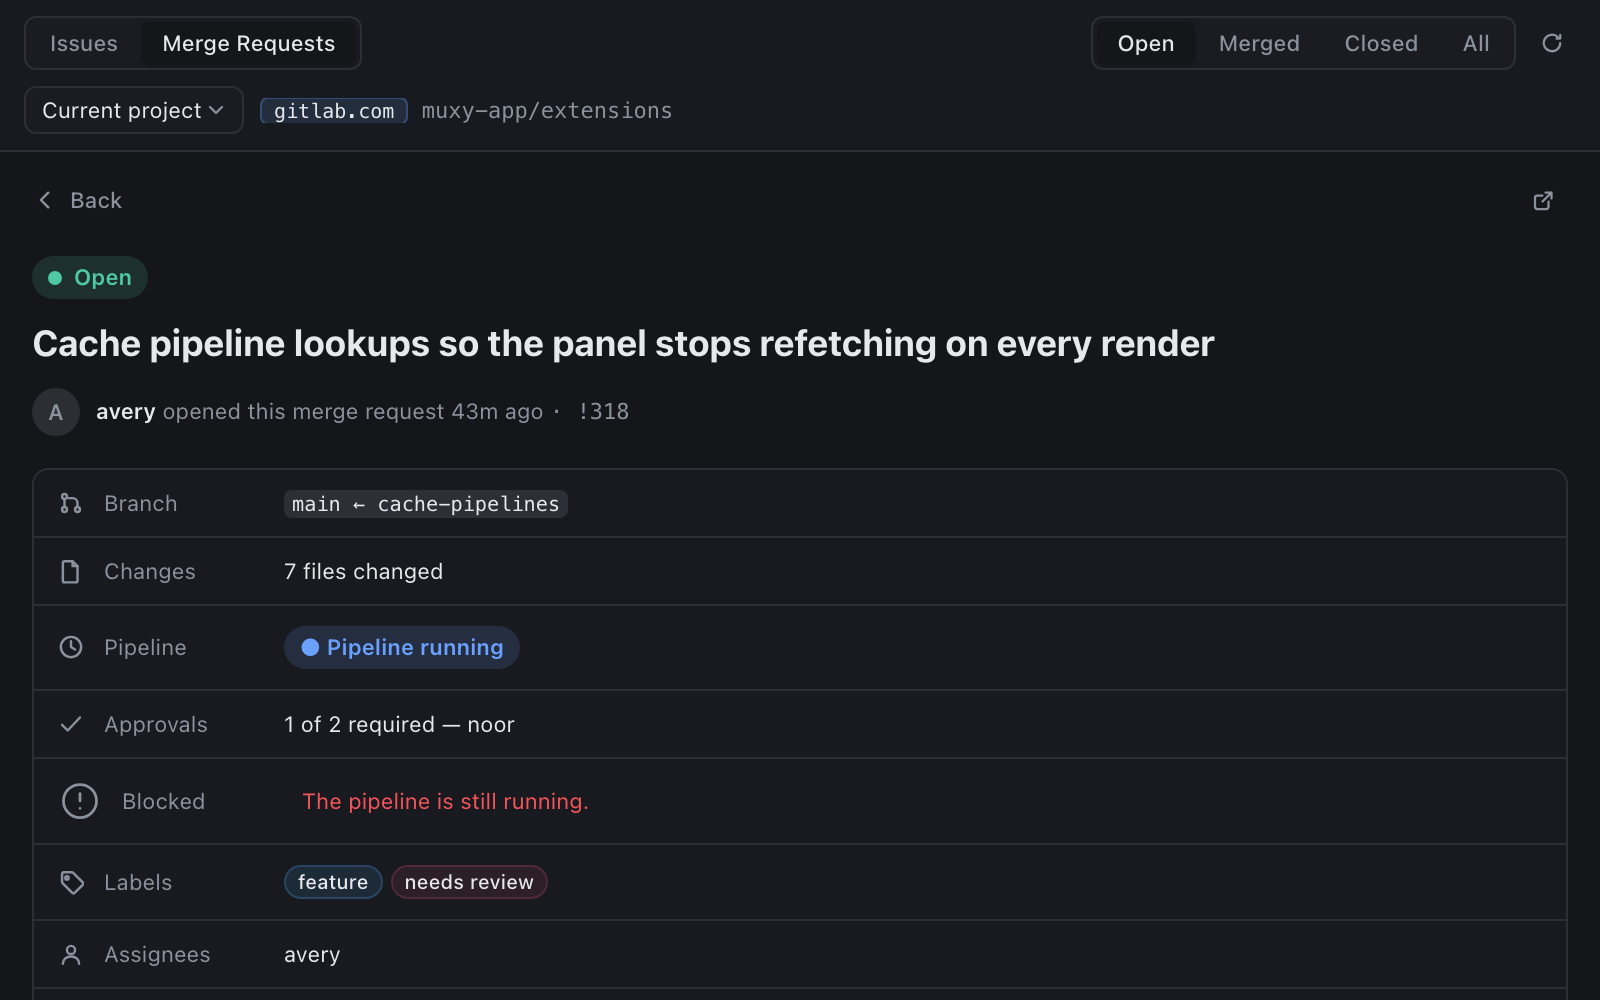
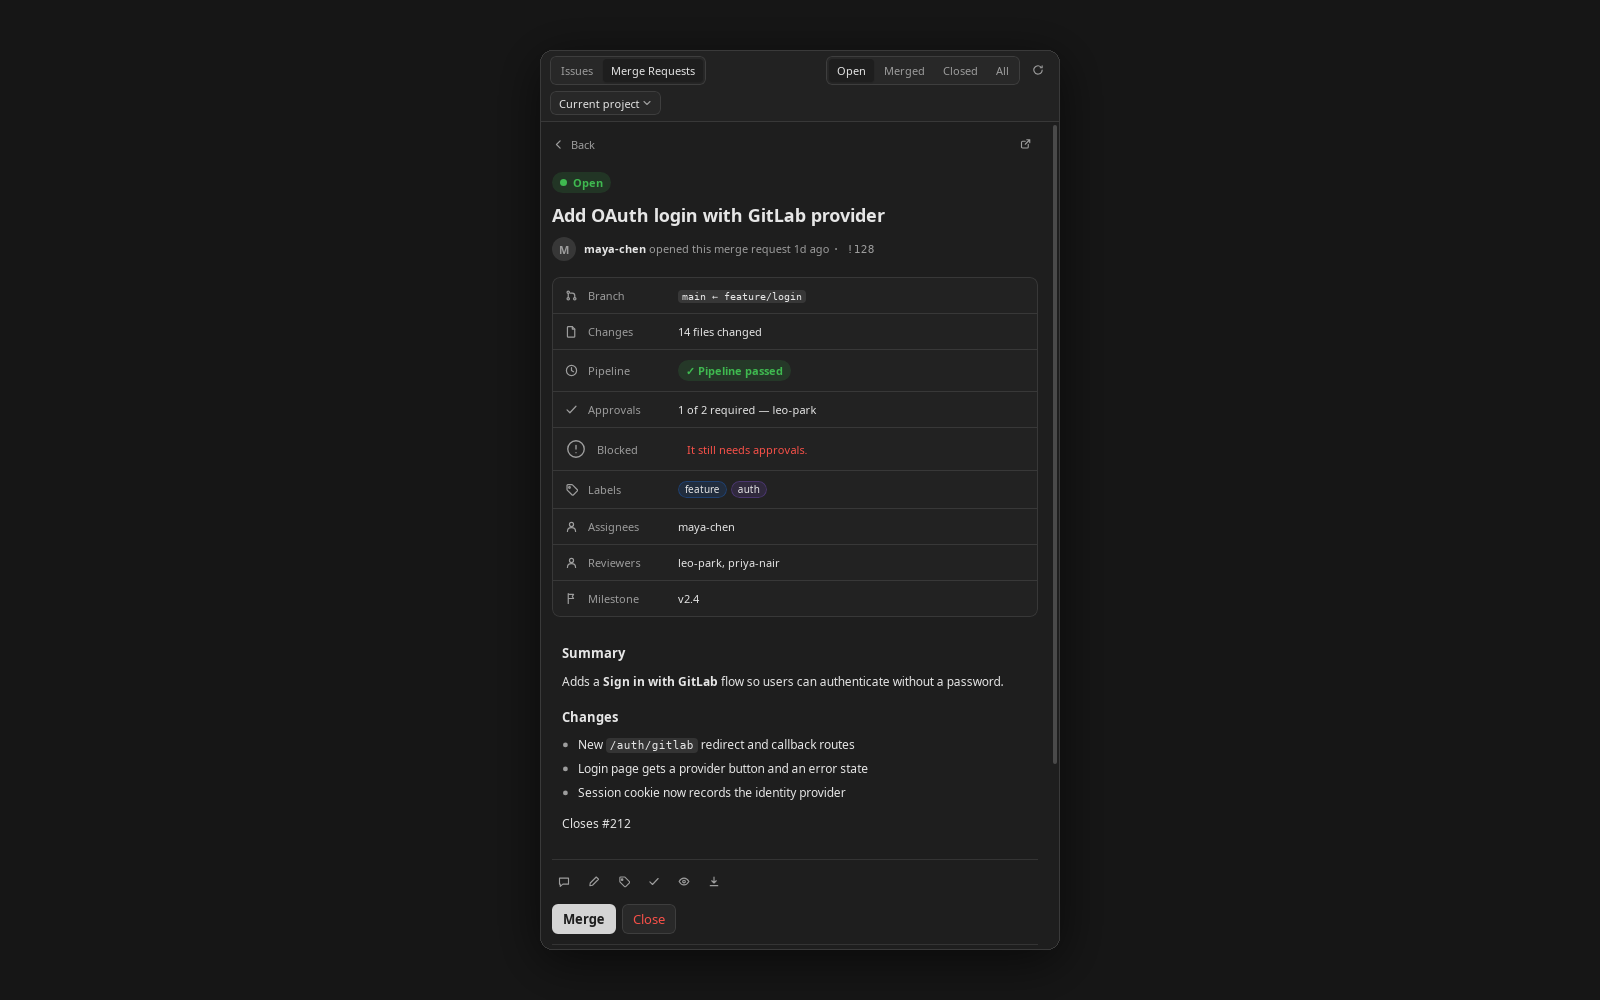
gitlab 0.1.2 (#29)
* harness: gitlab listing cases

* harness: fix gitlab project route

* gitlab: credits, version bump, release

* gitlab: replace listing screenshots with neutral renders

diff --git a/tools/harness/fixtures/gitlab.js b/tools/harness/fixtures/gitlab.js
@@ -1,0 +1,80 @@
+// Sample GitLab data for the gitlab extension: `glab api` output served through atur.exec.
+(() => {
+  const h = window.__harness;
+  const scene = (h.data && h.data.scene) || "mr";
+  const ago = (hours) => new Date(Date.now() - hours * 3600 * 1000).toISOString();
+  const PATH = "acme/acme-web";
+  const user = (username, name) => ({ id: username.length * 7, username, name, state: "active" });
+  const maya = user("maya-chen", "Maya Chen"), leo = user("leo-park", "Leo Park"),
+    sam = user("sam-ortiz", "Sam Ortiz"), priya = user("priya-nair", "Priya Nair");
+  const lab = (name, color) => ({ name, color, text_color: "#ffffff" });
+  const L = { feature: lab("feature", "#1f6feb"), bug: lab("bug", "#d73a4a"), auth: lab("auth", "#8957e5"), docs: lab("docs", "#0e8a16"), ci: lab("ci", "#e99695") };
+  const web = "https://gitlab.com/" + PATH;
+
+  const mrs = [
+    { iid: 128, title: "Add OAuth login with GitLab provider", state: "opened", draft: false, author: maya, labels: [L.feature, L.auth], updated_at: ago(2), created_at: ago(30) },
+    { iid: 127, title: "Fix flaky checkout test on slow runners", state: "opened", draft: false, author: leo, labels: [L.bug, L.ci], updated_at: ago(4), created_at: ago(20) },
+    { iid: 125, title: "Upgrade to Node 22 and refresh lockfile", state: "opened", draft: false, author: sam, labels: [L.ci], updated_at: ago(9), created_at: ago(40) },
+    { iid: 123, title: "Dashboard: lazy-load chart widgets", state: "opened", draft: true, author: maya, labels: [L.feature], updated_at: ago(26), created_at: ago(60) },
+    { iid: 121, title: "Docs: document environment variables", state: "opened", draft: false, author: priya, labels: [L.docs], updated_at: ago(50), created_at: ago(80) },
+    { iid: 118, title: "Replace moment.js with date-fns", state: "opened", draft: false, author: sam, labels: [], updated_at: ago(96), created_at: ago(120) },
+    { iid: 115, title: "Add dark mode toggle to settings", state: "opened", draft: false, author: priya, labels: [L.feature], updated_at: ago(170), created_at: ago(200) },
+  ];
+  const mr128 = {
+    ...mrs[0], web_url: web + "/-/merge_requests/128", source_branch: "feature/login", target_branch: "main",
+    changes_count: "14", detailed_merge_status: "not_approved", assignees: [maya], reviewers: [leo, priya],
+    milestone: { title: "v2.4" },
+    head_pipeline: { status: "success", web_url: web + "/-/pipelines/9012" },
+    description: "## Summary\n\nAdds a **Sign in with GitLab** flow so users can authenticate without a password.\n\n## Changes\n\n- New `/auth/gitlab` redirect and callback routes\n- Login page gets a provider button and an error state\n- Session cookie now records the identity provider\n\nCloses #212",
+  };
+  const mr128Notes = [
+    { id: 1, system: false, author: leo, created_at: ago(5), body: "Looks good overall. Can we add a test for the denied-consent path?" },
+    { id: 2, system: false, author: maya, created_at: ago(2), body: "Added in `auth/callback.test.ts`. Ready for another look." },
+  ];
+  const issues = [
+    { iid: 212, title: "Users cannot sign in without a password", state: "opened", author: priya, labels: [L.feature, L.auth], updated_at: ago(3), created_at: ago(90) },
+    { iid: 210, title: "Checkout total rounds incorrectly for JPY", state: "opened", author: leo, labels: [L.bug], updated_at: ago(7), created_at: ago(70) },
+    { iid: 207, title: "Document the release process", state: "opened", author: sam, labels: [L.docs], updated_at: ago(30), created_at: ago(150) },
+    { iid: 204, title: "Pipeline cache is not restored on main", state: "opened", author: maya, labels: [L.ci, L.bug], updated_at: ago(52), created_at: ago(180) },
+    { iid: 199, title: "Support CSV export on the orders page", state: "opened", author: priya, labels: [L.feature], updated_at: ago(120), created_at: ago(300) },
+    { iid: 196, title: "Typo on the pricing page", state: "opened", author: sam, labels: [L.docs], updated_at: ago(200), created_at: ago(400) },
+  ];
+
+  h.set("projects.list", async () => [{ id: "p1", name: "acme-web", path: "/home/dev/acme-web", isActive: true }]);
+  h.set("exec", async (argv) => {
+    const out = (stdout) => ({ stdout, stderr: "", exitCode: 0 });
+    if (argv[0] === "git" && argv[1] === "remote" && argv[2] === "get-url") return out("git@gitlab.com:" + PATH + ".git\n");
+    if (argv[0] === "git" && argv[1] === "remote") return out("origin\n");
+    if (argv[0] !== "glab") return out("");
+    const ep = argv[argv.length - 1];
+    const json = (v) => out(JSON.stringify(v));
+    if (ep === "user") return json(maya);
+    if (/\/labels/.test(ep)) return json(Object.values(L));
+    if (/\/members\/all/.test(ep)) return json([maya, leo, sam, priya]);
+    if (/\/merge_requests\/128\/notes/.test(ep)) return json(mr128Notes);
+    if (/\/merge_requests\/128\/approvals/.test(ep)) return json({ approvals_required: 2, approved_by: [{ user: leo }] });
+    if (/\/merge_requests\/128(\?|$)/.test(ep)) return json(mr128);
+    if (/\/merge_requests\?/.test(ep)) return json(mrs);
+    if (/\/issues\?/.test(ep)) return json(issues);
+    if (/\/notes/.test(ep)) return json([]);
+    if (/^projects\/[^/?]+$/.test(ep)) return json({ id: 4242, path_with_namespace: PATH, web_url: web, default_branch: "main" });
+    return json([]);
+  });
+
+  const sleep = (ms) => new Promise((resolve) => setTimeout(resolve, ms));
+  const until = async (test) => { for (let i = 0; i < 100 && !test(); i += 1) await sleep(100); };
+  window.addEventListener("load", async () => {
+    await until(() => document.querySelector(".issue"));
+    if (scene !== "issues") {
+      document.querySelector("[data-mode=mrs]").click();
+      await sleep(300);
+      await until(() => document.querySelector('.issue[data-iid="128"]'));
+    }
+    if (scene === "detail") {
+      document.querySelector('.issue[data-iid="128"]').click();
+      await until(() => document.querySelector(".detail__title"));
+    }
+    await sleep(500);
+    window.__ready = true;
+  });
+})();

diff --git a/extensions/gitlab/README.md b/extensions/gitlab/README.md
@@ -64,3 +64,7 @@ npm test
 ```
 
 Then click **Reload** in the Atur Terminal Extensions modal.
+
+## Credits
+
+Originally published in muxy-app/extensions (MIT) by Eric Marchand. Maintained by Atur Terminal.
